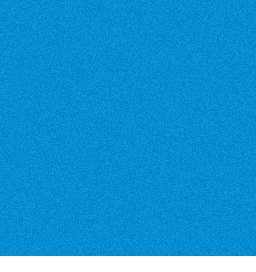
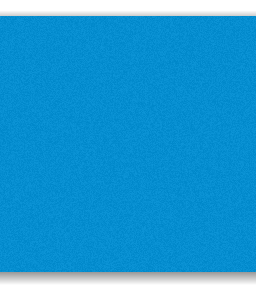
shading

Changed region(s): [[0.0, 0.8824, 1.0, 0.9412], [0.0, 0.0, 1.0, 0.0588]]

diff --git a/style/css/index.css b/style/css/index.css
@@ -33,9 +33,10 @@ body {
   background-color: white;
 }
 #page-wrap #container-wrap #content-wrap #content-col .banner-center {
-  margin-top: 100px;
+  margin-top: 84px;
+  padding-top: 16px;
   background-image: url('img/banner_center_noise.png');
-  height: 272px;
+  height: 308px;
 }
 #page-wrap #container-wrap #left-col {
   float: left;

diff --git a/style/src/index.less b/style/src/index.less
@@ -37,9 +37,10 @@ body {
 				background-color: white;
 
 				.banner-center {
-					margin-top: 100px;
+					margin-top: 84px;
+					padding-top: 16px;
 					background-image: url('img/banner_center_noise.png');
-					height: 272px;
+					height: 308px;
 				}
 			}
 		}

diff --git a/index.html b/index.html
@@ -15,7 +15,7 @@
 				<div id='content-wrap'>
 					<div id='content-col'>
 						<div class='banner-center'>
-							allo
+							<h1 style='color: white; font-size: 70px;'>This is awesome!</h1>
 						</div>
 					</div>
 				</div>
